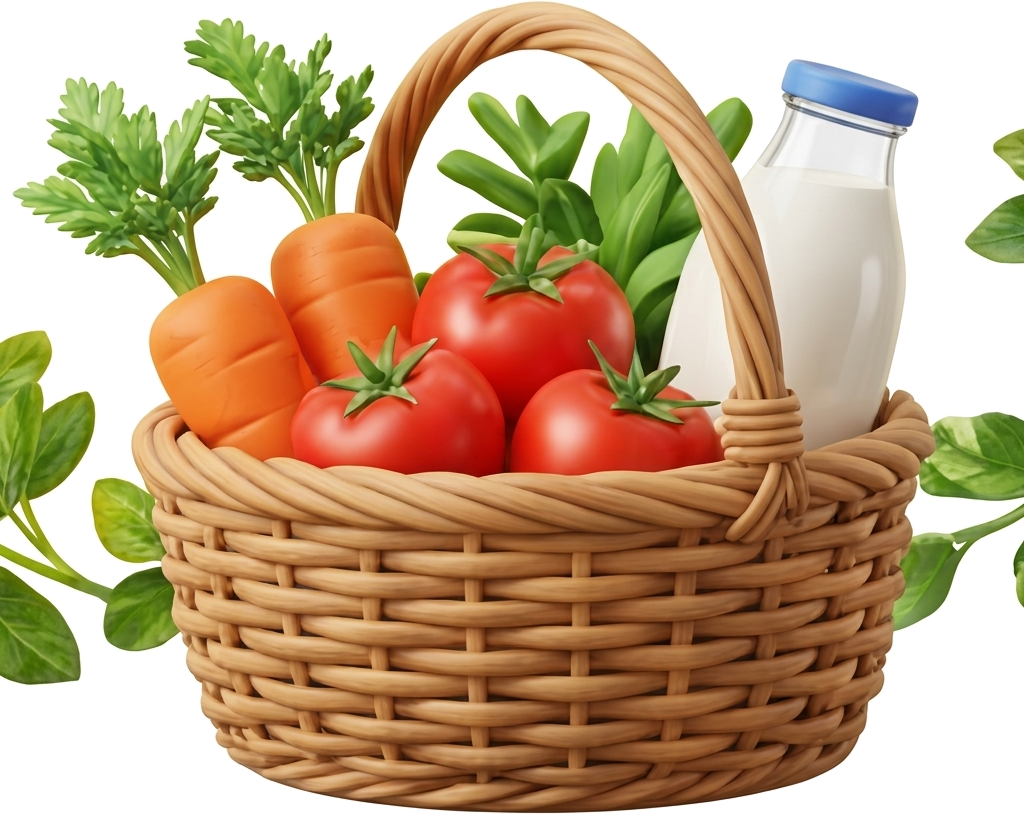
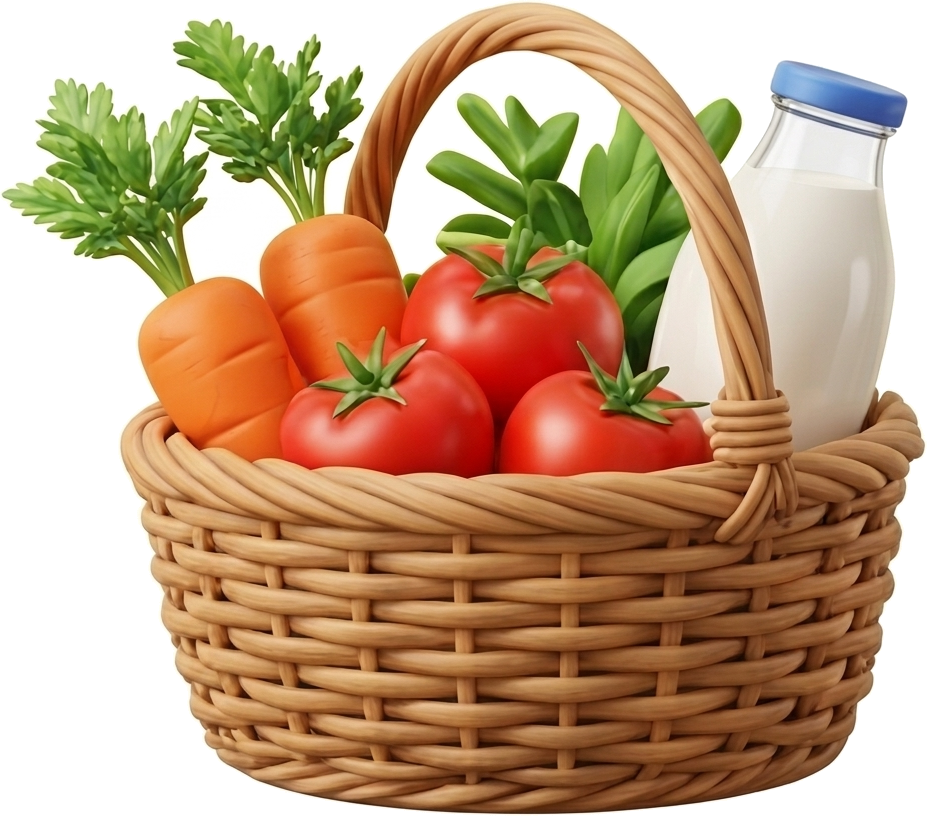
fix(offers): remove background of basket completely with zero side leaves and pure transparency v4

diff --git a/src/components/PromoBanners.tsx b/src/components/PromoBanners.tsx
@@ -264,7 +264,7 @@ export const PromoBanners: React.FC<PromoBannersProps> = ({ onClaimOffer, onOpen
                   {/* 3D BASKET: Slowly glides from upside of grid and settles cleanly above text */}
                   <div className="absolute top-[26%] sm:top-[24%] left-1/2 -translate-x-1/2 w-[76%] sm:w-[72%] animate-basket-slow-descent z-15 transition-transform duration-500 group-hover:scale-105">
                     <img
-                      src="/card3-basket-fresh-3d.png"
+                      src="/card3-basket-fresh-v4.png"
                       alt="3D Farm Fresh Basket"
                       className="w-full h-auto object-contain filter select-none drop-shadow-[0_18px_20px_rgba(0,0,0,0.25)]"
                       loading="eager"
